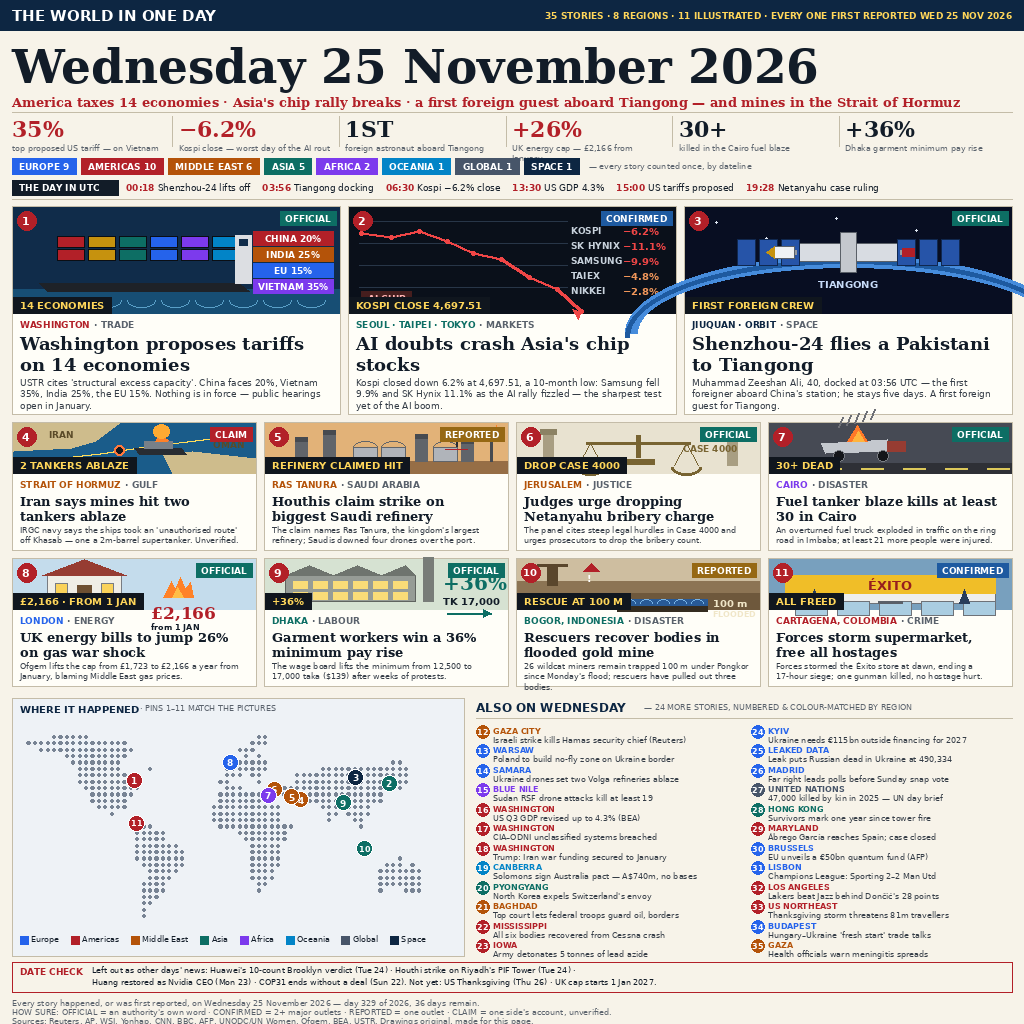
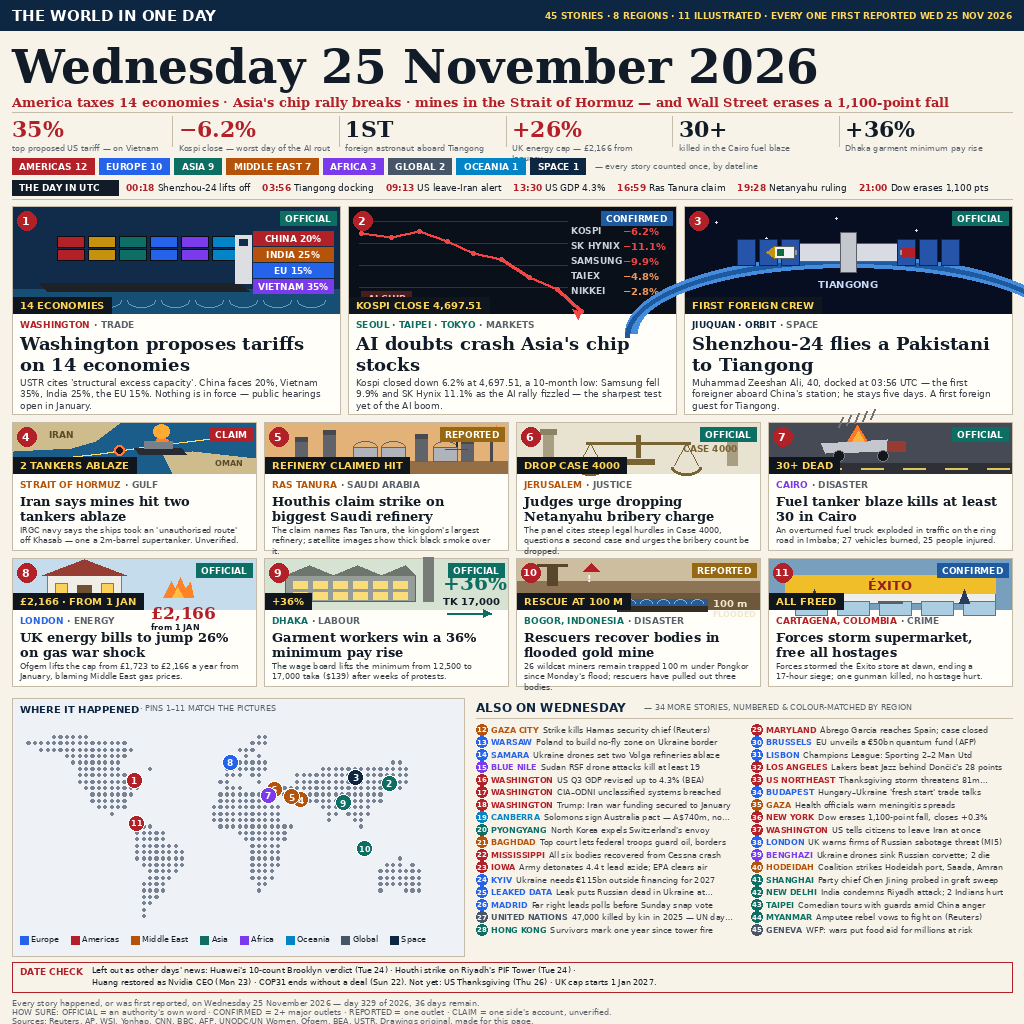
v2: 45 stories — deeper wire research (Dow 1,100-pt reversal, leave-Iran alert, MI5 sabotage warning, Benghazi corvette, Hodeidah strike), one-line list format, stronger tile bodies

diff --git a/build_image.py b/build_image.py
@@ -3,7 +3,7 @@
 Draws "THE WORLD IN ONE DAY" for Wednesday 25 November 2026 as a dense
 tabloid page: masthead, giant date, numbers strip, region tabs, a UTC
 timeline, eleven numbered illustrated tiles, a numbered world map, a
-24-item numbered list and a date-check box. Every story was verified
+34-item numbered list and a date-check box. Every story was verified
 against wire reporting of the day; the drawing is original.
 
 Run at build time only:  python3 build_image.py  ->  entry.png
@@ -100,16 +100,16 @@ TILES_SMALL = [
      "2m-barrel supertanker. Unverified."),
     ("RAS TANURA", "SAUDI ARABIA", "MIDDLE EAST", "REPORTED", "REFINERY CLAIMED HIT",
      "Houthis claim strike on biggest Saudi refinery",
-     "The claim names Ras Tanura, the kingdom's largest refinery; Saudis downed "
-     "four drones over the port."),
+     "The claim names Ras Tanura, the kingdom's largest refinery; satellite images "
+     "show thick black smoke over it."),
     ("JERUSALEM", "JUSTICE", "MIDDLE EAST", "OFFICIAL", "DROP CASE 4000",
      "Judges urge dropping Netanyahu bribery charge",
-     "The panel cites steep legal hurdles in Case 4000 and urges prosecutors to "
-     "drop the bribery count."),
+     "The panel cites steep legal hurdles in Case 4000, questions a second case "
+     "and urges the bribery count be dropped."),
     ("CAIRO", "DISASTER", "AFRICA", "OFFICIAL", "30+ DEAD",
      "Fuel tanker blaze kills at least 30 in Cairo",
      "An overturned fuel truck exploded in traffic on the ring road in Imbaba; "
-     "at least 21 more people were injured."),
+     "27 vehicles burned, 25 people injured."),
     ("LONDON", "ENERGY", "EUROPE", "OFFICIAL", "£2,166 · FROM 1 JAN",
      "UK energy bills to jump 26% on gas war shock",
      "Ofgem lifts the cap from £1,723 to £2,166 a year from January, blaming "
@@ -130,30 +130,40 @@ TILES_SMALL = [
 
 # List: (place, region, text)
 LIST_ITEMS = [
-    ("GAZA CITY", "MIDDLE EAST", "Israeli strike kills Hamas security chief (Reuters)"),
+    ("GAZA CITY", "MIDDLE EAST", "Strike kills Hamas security chief (Reuters)"),
     ("WARSAW", "EUROPE", "Poland to build no-fly zone on Ukraine border"),
     ("SAMARA", "EUROPE", "Ukraine drones set two Volga refineries ablaze"),
     ("BLUE NILE", "AFRICA", "Sudan RSF drone attacks kill at least 19"),
     ("WASHINGTON", "AMERICAS", "US Q3 GDP revised up to 4.3% (BEA)"),
     ("WASHINGTON", "AMERICAS", "CIA–ODNI unclassified systems breached"),
     ("WASHINGTON", "AMERICAS", "Trump: Iran war funding secured to January"),
-    ("CANBERRA", "OCEANIA", "Solomons sign Australia pact — A$740m, no bases"),
+    ("CANBERRA", "OCEANIA", "Solomons–Australia pact: A$740m, no bases"),
     ("PYONGYANG", "ASIA", "North Korea expels Switzerland's envoy"),
     ("BAGHDAD", "MIDDLE EAST", "Top court lets federal troops guard oil, borders"),
     ("MISSISSIPPI", "AMERICAS", "All six bodies recovered from Cessna crash"),
-    ("IOWA", "AMERICAS", "Army detonates 5 tonnes of lead azide"),
+    ("IOWA", "AMERICAS", "Army detonates 4.4 t lead azide; EPA clears air"),
     ("KYIV", "EUROPE", "Ukraine needs €115bn outside financing for 2027"),
     ("LEAKED DATA", "EUROPE", "Leak puts Russian dead in Ukraine at 490,334"),
     ("MADRID", "EUROPE", "Far right leads polls before Sunday snap vote"),
-    ("UNITED NATIONS", "GLOBAL", "47,000 killed by kin in 2025 — UN day brief"),
+    ("UNITED NATIONS", "GLOBAL", "47,000 killed by kin in 2025 (UN brief)"),
     ("HONG KONG", "ASIA", "Survivors mark one year since tower fire"),
     ("MARYLAND", "AMERICAS", "Ábrego García reaches Spain; case closed"),
     ("BRUSSELS", "EUROPE", "EU unveils a €50bn quantum fund (AFP)"),
     ("LISBON", "EUROPE", "Champions League: Sporting 2–2 Man Utd"),
     ("LOS ANGELES", "AMERICAS", "Lakers beat Jazz behind Dončić's 28 points"),
-    ("US NORTHEAST", "AMERICAS", "Thanksgiving storm threatens 81m travellers"),
-    ("BUDAPEST", "EUROPE", "Hungary–Ukraine 'fresh start' trade talks"),
+    ("US NORTHEAST", "AMERICAS", "Thanksgiving storm threatens 81m trips"),
+    ("BUDAPEST", "EUROPE", "Hungary–Ukraine 'fresh start' talks"),
     ("GAZA", "MIDDLE EAST", "Health officials warn meningitis spreads"),
+    ("NEW YORK", "AMERICAS", "Dow erases 1,100-point fall, closes +0.3%"),
+    ("WASHINGTON", "AMERICAS", "US tells citizens to leave Iran at once"),
+    ("LONDON", "EUROPE", "UK warns firms of Russian sabotage threat (MI5)"),
+    ("BENGHAZI", "AFRICA", "Ukraine drones sink Russian corvette; 2 die"),
+    ("HODEIDAH", "MIDDLE EAST", "Coalition strikes Hodeidah port, Saada, Amran"),
+    ("SHANGHAI", "ASIA", "Party chief Chen Jining probed in graft sweep"),
+    ("NEW DELHI", "ASIA", "India condemns Riyadh attack; 2 Indians hurt"),
+    ("TAIPEI", "ASIA", "Comedian tours with guards amid China anger"),
+    ("MYANMAR", "ASIA", "Amputee rebel vows to fight on (Reuters)"),
+    ("GENEVA", "GLOBAL", "WFP: wars put food aid for millions at risk"),
 ]
 
 KPIS = [("35%", "top proposed US tariff — on Vietnam"),
@@ -164,8 +174,9 @@ KPIS = [("35%", "top proposed US tariff — on Vietnam"),
         ("+36%", "Dhaka garment minimum pay rise")]
 
 TIMELINE = [("00:18", "Shenzhou-24 lifts off"), ("03:56", "Tiangong docking"),
-            ("06:30", "Kospi −6.2% close"), ("13:30", "US GDP 4.3%"),
-            ("15:00", "US tariffs proposed"), ("19:28", "Netanyahu case ruling")]
+            ("09:13", "US leave-Iran alert"), ("13:30", "US GDP 4.3%"),
+            ("16:59", "Ras Tanura claim"), ("19:28", "Netanyahu ruling"),
+            ("21:00", "Dow erases 1,100 pts")]
 
 # ------------------------------------------------------------- continents
 # Coarse polygons in (lon, lat); rasterised to a dot matrix for the map.
@@ -303,6 +314,7 @@ def scene_station(d, x, y, w, h):
         xa, xb = cx + sgn * 52, cx + sgn * 56
         d.rectangle([min(xa, xb), cy - 2, max(xa, xb), cy + 2], fill=(150, 154, 160))
     d.rectangle([cx - 74, cy - 6, cx - 54, cy + 6], fill=(240, 242, 244), outline=(90, 96, 104))
+    d.rectangle([cx - 71, cy - 3, cx - 65, cy + 3], fill=(13, 110, 60))
     d.polygon([(cx - 74, cy - 6), (cx - 82, cy), (cx - 74, cy + 6)], fill=(198, 146, 14))
     d.rectangle([cx + 54, cy - 4, cx + 66, cy + 4], fill=(178, 32, 40))
     d.text((cx - 30, cy + 26), "TIANGONG", font=F(SANSB, 10), fill=(200, 220, 250))
@@ -316,7 +328,7 @@ def scene_hormuz(d, x, y, w, h):
                (x + w * 0.74, y + h * 0.56), (x + w, y + h * 0.70), (x + w, y + h)],
               fill=(206, 188, 140))
     d.text((x + 36, y + 6), "IRAN", font=F(SANSB, 9), fill=(90, 74, 40))
-    d.text((x + w - 42, y + h - 34), "OMAN", font=F(SANSB, 9), fill=(90, 74, 40))
+    d.text((x + w - 40, y + h - 15), "OMAN", font=F(SANSB, 8), fill=(90, 74, 40))
     route = [(x + 14, y + h - 12), (x + w * 0.36, y + h * 0.60), (x + w * 0.55, y + h * 0.46),
              (x + w * 0.82, y + h * 0.30)]
     for i in range(len(route) - 1):
@@ -516,13 +528,13 @@ def main():
     # Masthead
     d.rectangle([0, 0, W, 30], fill=NAVY)
     d.text((12, 7), "THE WORLD IN ONE DAY", font=F(SANSB, 15), fill=WHITE)
-    right = "35 STORIES · 8 REGIONS · 11 ILLUSTRATED · EVERY ONE FIRST REPORTED WED 25 NOV 2026"
+    right = "45 STORIES · 8 REGIONS · 11 ILLUSTRATED · EVERY ONE FIRST REPORTED WED 25 NOV 2026"
     d.text((W - 12 - d.textlength(right, font=F(SANSB, 9)), 10), right, font=F(SANSB, 9),
            fill=(255, 214, 90))
     # Date + sub-lead
     d.text((12, 38), "Wednesday 25 November 2026", font=F(SERIF, 47), fill=INK)
-    d.text((12, 94), "America taxes 14 economies · Asia's chip rally breaks · a first foreign "
-                     "guest aboard Tiangong — and mines in the Strait of Hormuz",
+    d.text((12, 94), "America taxes 14 economies · Asia's chip rally breaks · mines in the Strait "
+                     "of Hormuz — and Wall Street erases a 1,100-point fall",
            font=F(SERIF, 13), fill=RED)
     # KPI strip
     ky = 116
@@ -536,8 +548,8 @@ def main():
         text_block(d, kx, ky + 27, lab, F(SANS, 8), GREY, kw - 14, 10)
     # Region tabs
     ty = 158
-    tabs = [("EUROPE", 9), ("AMERICAS", 10), ("MIDDLE EAST", 6), ("ASIA", 5),
-            ("AFRICA", 2), ("OCEANIA", 1), ("GLOBAL", 1), ("SPACE", 1)]
+    tabs = [("AMERICAS", 12), ("EUROPE", 10), ("ASIA", 9), ("MIDDLE EAST", 7),
+            ("AFRICA", 3), ("GLOBAL", 2), ("OCEANIA", 1), ("SPACE", 1)]
     tx = 12
     for reg, cnt in tabs:
         label = f"{reg} {cnt}"
@@ -571,23 +583,29 @@ def main():
     draw_map(d, 12, by, 452, 258)
     lx = 476
     d.text((lx, by + 2), "ALSO ON WEDNESDAY", font=F(SANSB, 12), fill=NAVY)
-    d.text((lx + 168, by + 4), "— 24 MORE STORIES, NUMBERED & COLOUR-MATCHED BY REGION",
+    d.text((lx + 168, by + 4), "— 34 MORE STORIES, NUMBERED & COLOUR-MATCHED BY REGION",
            font=F(SANS, 8), fill=GREY)
     d.line([lx, by + 20, W - 12, by + 20], fill=LINE)
     colw = (W - 12 - lx - 14) // 2
+    pf, tf = F(SANSB, 8), F(SANS, 8)
     for i, (place, region, text) in enumerate(LIST_ITEMS):
-        c, r = divmod(i, 12)
+        c, r = divmod(i, 17)
         ix = lx + c * (colw + 14)
-        iy = by + 27 + r * 19.5
+        iy = by + 26 + r * 12.5
         n = i + 12
-        d.ellipse([ix, iy, ix + 13, iy + 13], fill=REGION_FILL[region])
+        d.ellipse([ix, iy, ix + 11, iy + 11], fill=REGION_FILL[region])
         s = str(n)
-        f = F(SANSB, 8)
-        d.text((ix + 6.5 - d.textlength(s, font=f) / 2, iy + 2), s, font=f, fill=WHITE)
-        d.text((ix + 17, iy + 1), place, font=F(SANSB, 8), fill=REGION_FILL[region])
-        pw = d.textlength(place, font=F(SANSB, 8))
-        one = text if len(text) < 88 else text
-        text_block(d, ix + 17, iy + 10, one, F(SANS, 8), (52, 60, 70), colw - 20, 9)
+        d.text((ix + 5.5 - d.textlength(s, font=F(SANSB, 7)) / 2, iy + 1.5), s,
+               font=F(SANSB, 7), fill=WHITE)
+        d.text((ix + 15, iy + 1), place, font=pf, fill=REGION_FILL[region])
+        tx0 = ix + 15 + d.textlength(place, font=pf) + 4
+        budget = ix + colw - tx0
+        t = text
+        while t and d.textlength(t, font=tf) > budget:
+            t = t.rsplit(" ", 1)[0]
+        if t != text:
+            t += "…"
+        d.text((tx0, iy + 1), t, font=tf, fill=(52, 60, 70))
     # Date check + sources
     dy = 962
     d.rectangle([12, dy, W - 12, dy + 30], outline=RED, width=1)

diff --git a/README.md b/README.md
@@ -15,11 +15,14 @@ Tiangong, claimed mine strikes in the Strait of Hormuz, a claimed strike on
 the Ras Tanura refinery, Jerusalem judges urging that the Netanyahu bribery
 charge be dropped, the Cairo fuel blaze, Ofgem's 26% price-cap rise,
 Dhaka's 36% garment pay rise, the flooded Bogor gold mine and the Cartagena
-hostage rescue), a dot-matrix world map with pins 1–11, 24 further numbered
-stories, and a date-check box that keeps other days' news out.
+hostage rescue), a dot-matrix world map with pins 1–11, 34 further numbered
+stories — among them Wall Street's 1,100-point Dow reversal, the US
+leave-Iran alert, Britain's Russian-sabotage warning, Ukraine's sinking of
+a Russian corvette off Benghazi and the coalition strike on Hodeidah — and
+a date-check box that keeps other days' news out.
 
 Every story was verified against wire reporting of the day and carries an
-honesty label — OFFICIAL, CONFIRMED, REPORTED or CLAIM. 35 stories,
+honesty label — OFFICIAL, CONFIRMED, REPORTED or CLAIM. 45 stories,
 8 regions, all from Wednesday 25 November 2026.
 
 ## Layout of this repository
